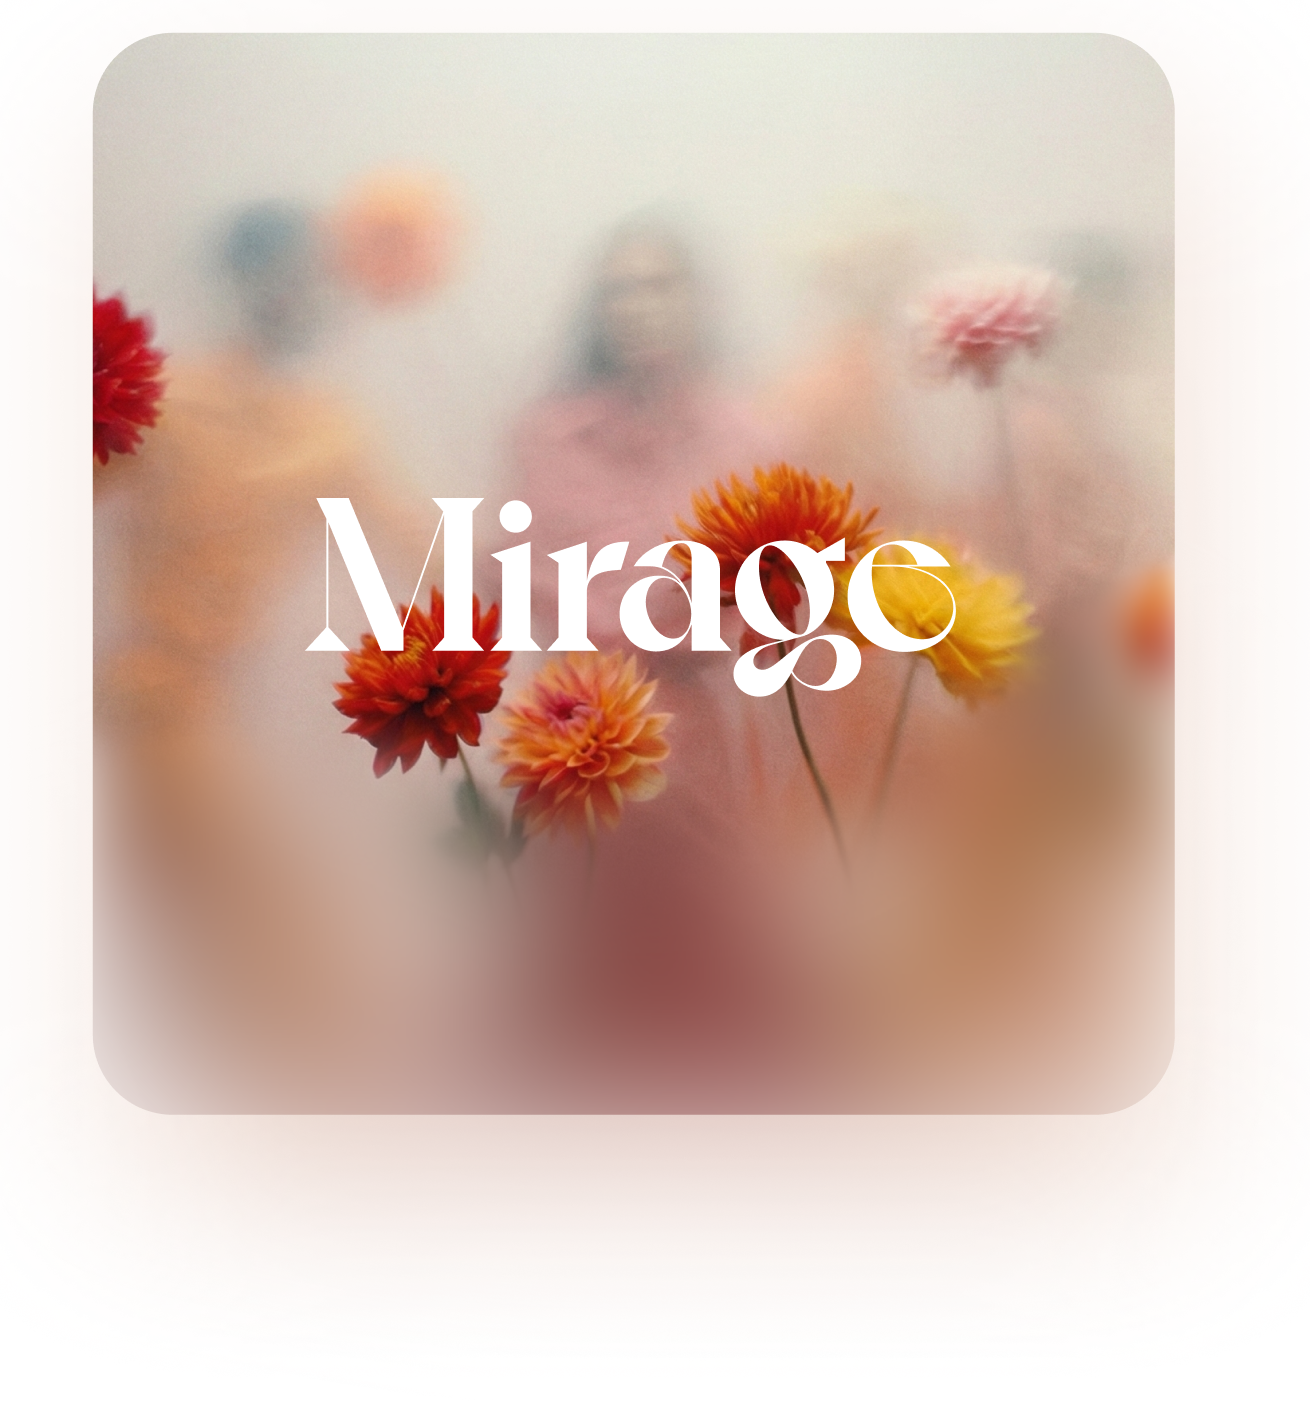
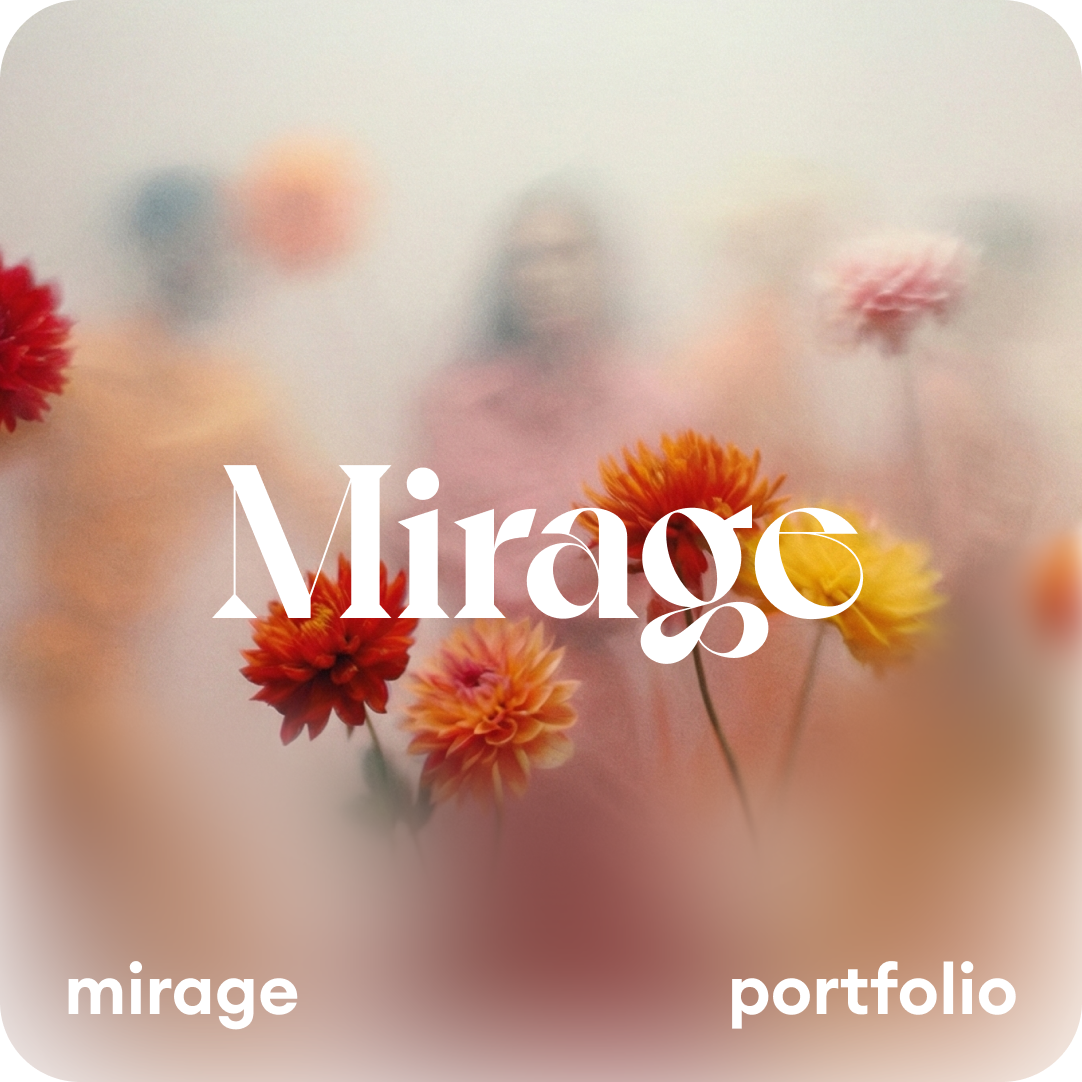
feat: complete project 01 layout and fix intro overflow

diff --git a/src/styles/style.css b/src/styles/style.css
@@ -9,7 +9,7 @@
 
   /* couleurs et dégradés */
   --white: #ffffff;
-  --main-gradient: radial-gradient(256.67% 56.7% at 23.76% 54.58%, #fa5842 0%, #7454c9 100%);
+  --main-gradient: linear-gradient(88deg, #fa5842 3.7%, #7454c9 79.26%);
   --project-1-gradient: linear-gradient(90deg, #e7e7db 0%, #f3e2db 52.88%);
   --project-2-gradient: linear-gradient(90deg, #ad6650 0%, #e5baaa 24.52%);
   --project-3-gradient: radial-gradient(
@@ -58,6 +58,7 @@ body {
   font-size: 1.6rem;
 }
 
+/* texxt styles */
 .text-head {
   font-size: 12rem;
   font-weight: 600;
@@ -70,6 +71,22 @@ body {
 p {
   font-size: 2rem;
   line-height: 140%;
+}
+
+h1 {
+  font-weight: 600;
+  font-size: 45rem;
+  line-height: 120%;
+}
+
+h2 {
+  font-weight: 600;
+  font-size: 10rem;
+  background: var(--main-gradient);
+  background-clip: text;
+  -webkit-background-clip: text;
+  -webkit-text-fill-color: transparent;
+  line-height: 120%;
 }
 
 /* --- 2. HEADER --- */
@@ -116,7 +133,6 @@ header nav ul {
 
 .intro-wrapper {
   width: 100%;
-  max-height: calc(100vh - 0.8rem);
   /* fond temporaire */
   /* background: linear-gradient(to bottom, #ff9a9e 0%, #fad0c4 50%, #fbc2eb 100%); */
   background-image: url("/src/assets/images/degrade-hd.png");
@@ -128,6 +144,7 @@ header nav ul {
 
 .intro-wrapper .slide {
   background-color: transparent;
+  max-height: calc(100vh - 0.6rem);
 }
 
 /* hero slide */
@@ -335,10 +352,29 @@ section.hero {
   z-index: 30;
 }
 
-/* ligne visuelle temporaire pour voire les différentes parties */
-.projects-wrapper .slide {
-  border-bottom: 1px solid blue;
+.project-item > img {
+  width: 33%;
+  height: auto;
+  position: absolute;
+  border-radius: 8%;
 }
+
+/* 01 */
+.project-item > h2 {
+  position: absolute;
+  top: 6%;
+}
+.projects-wrapper > section:first-child > h1 {
+  background: linear-gradient(90deg, #e7e7db 0%, #f3e2db 52.88%);
+  background-clip: text;
+  -webkit-background-clip: text;
+  -webkit-text-fill-color: transparent;
+}
+.project-item > img {
+  top: 25%;
+  box-shadow: 11px 100px 104.4px -48px rgba(148, 112, 95, 0.61);
+}
+*/
 
 /* --- 6. FOOTER --- */
 .footer {

diff --git a/index.html b/index.html
@@ -164,7 +164,11 @@
 
       <!-- Partie projets -->
       <div class="projects-wrapper">
-        <section class="slide project-item">project 01</section>
+        <section class="slide project-item">
+          <h2>projets</h2>
+          <h1>portfolio</h1>
+          <img src="./src/assets/images/projet-1-mirage.png" alt="mirage-protfolio" />
+        </section>
         <section class="slide project-item">project 02</section>
         <section class="slide project-item">project 03</section>
         <section class="slide project-item">project 04</section>
